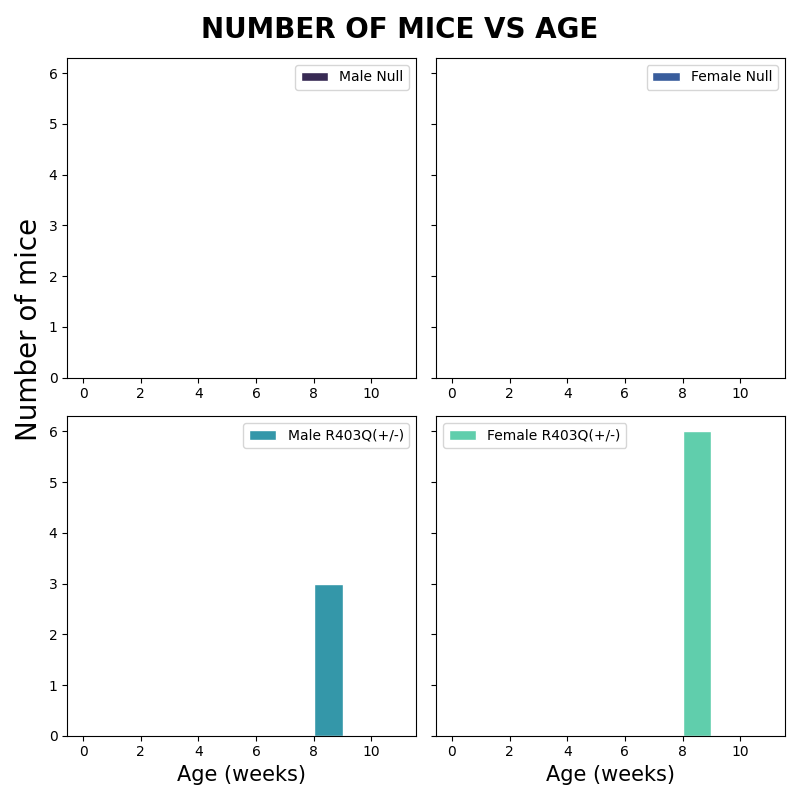
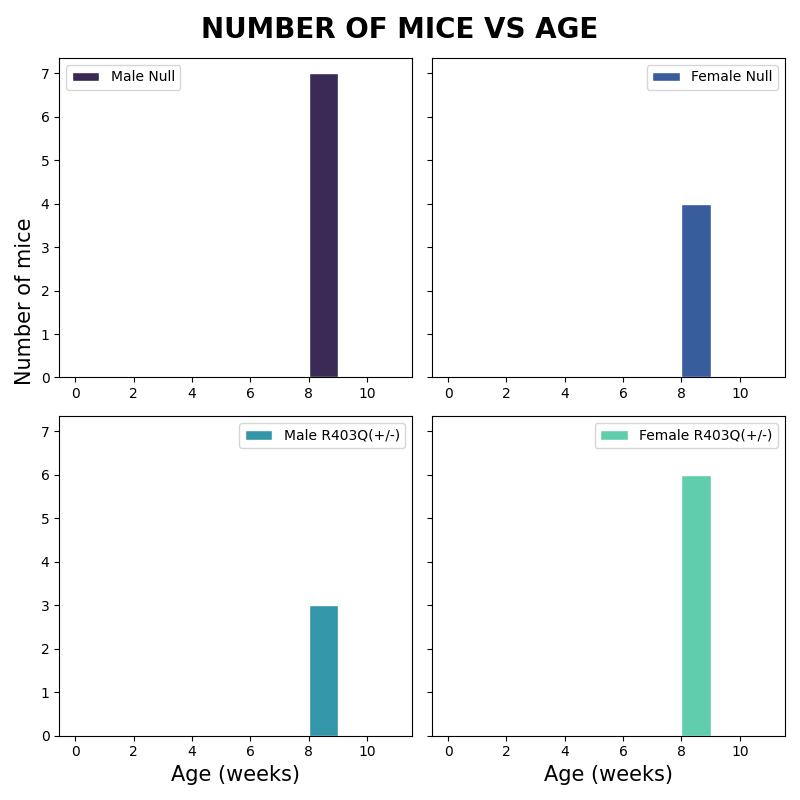
Automatic addition of image based timeframe selected
Corrected bug were the graph figure  is saved based on the dates that are asked for.

diff --git a/code/combined_gui.py b/code/combined_gui.py
@@ -247,7 +247,8 @@ class Application(tk.Tk):
         # self.textbox4.clear()
 
     def import_excel_file(self):
-        self.df = pd.read_excel(filepath1, sheet_name=0)
+        self.df = pd.read_excel(filepath1, sheet_name="Mouse List")
+        print(self.df)
 
     def obtain_data_from_excel(self):
         self.import_excel_file()
@@ -262,8 +263,6 @@ class Application(tk.Tk):
         # Limit data from the excel file for the chosen period of time
         n_df = self.df[(self.init_date <= self.df.Date_of_birth) &
                        (self.df.Date_of_birth <= self.final_date)]
-
-        l = len(n_df['Date_of_birth'])
 
         # Selects data from the excel file for sex, genotype and status (only mice that are alive)
         df_MWt = pd.DataFrame(n_df.loc[(self.df['Sex'] == 'Male') & (
@@ -343,7 +342,7 @@ class Application(tk.Tk):
         if len(self.d4) == 4:
             self.b = 5
         else:
-            self.b = int(max(self.d3))+3
+            self.b = int(max(self.d3))+1
 
         r = 0
 
@@ -501,7 +500,7 @@ class ExcelDevelopement:
 
         d2 = self.app_object.d2
         plot_name_four = str(self.app_object.plot_4_name)
-        p = "/results/2021_monthly_results/"+ plot_name_four + ".png"
+        p = "results/2021_monthly_results/plots_per_month/"+ plot_name_four + ".png"
 
         wb = xlsxwriter.Workbook("{}\\{}".format(
             self.fm.get_path_for_results(), "data_results.xlsx"))
